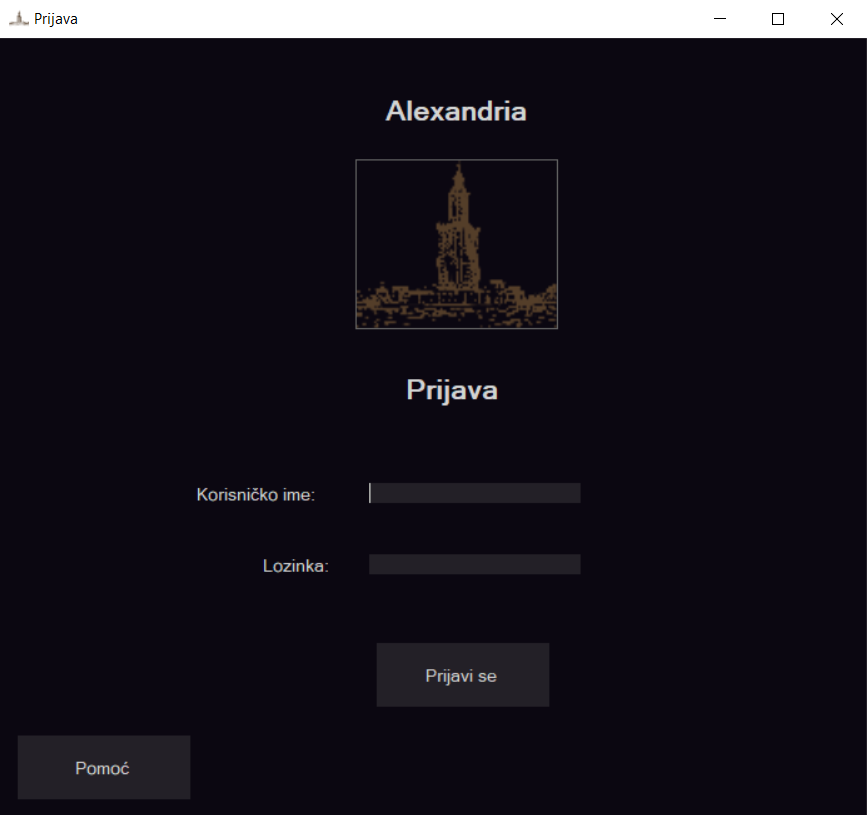
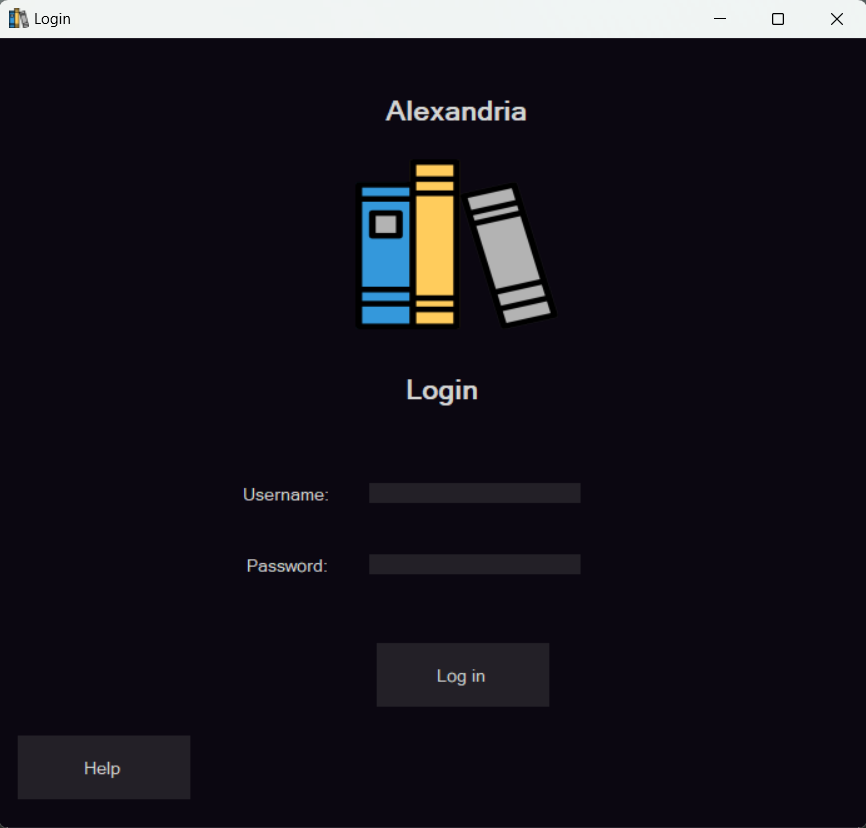
Alexandria: - bug resolved - more translations

diff --git a/Software/Alexandria/Presentation/Forms/FormLoans.cs b/Software/Alexandria/Presentation/Forms/FormLoans.cs
@@ -77,92 +77,96 @@ namespace Presentation.Forms
 
         private async void ButtonReturn_Click(object sender, EventArgs e)
         {
-            Loan selectedLoan = dataGridViewLoans.CurrentRow.DataBoundItem as Loan;
-            if (selectedLoan.Finished == false)
+            if (dataGridViewLoans.CurrentRow?.DataBoundItem != null)
             {
-                selectedLoan.Finished = true;
-
-                await _unitOfWork.Loans.UpdateAsync(selectedLoan, selectedLoan.Id);
-                await _unitOfWork.DatabaseScope.SaveAsync();
-
-                if (DateTime.Compare(selectedLoan.DateTo, DateTime.Now) <= 0)
+                Loan selectedLoan = dataGridViewLoans.CurrentRow.DataBoundItem as Loan;
+                if (selectedLoan.Finished == false)
                 {
-                    User user = selectedLoan.User;
-                    User employee = UserManager.LoggedUser;
+                    selectedLoan.Finished = true;
 
-                    Receipt receipt = new Receipt(user, employee);
+                    await _unitOfWork.Loans.UpdateAsync(selectedLoan, selectedLoan.Id);
+                    await _unitOfWork.DatabaseScope.SaveAsync();
 
-                    double dueAmount = (DateTime.Now - selectedLoan.DateTo).TotalDays * 15;
-
-                    receipt.ReceiptItem.Add(new ReceiptItem
+                    if (DateTime.Compare(selectedLoan.DateTo, DateTime.Now) <= 0)
                     {
-                        Loan = selectedLoan,
-                        Money = dueAmount
-                    });
+                        User user = selectedLoan.User;
+                        User employee = UserManager.LoggedUser;
 
-                    _unitOfWork.Receipts.Add(receipt);
+                        Receipt receipt = new Receipt(user, employee);
 
-                    MessageBox.Show("Literature returned and receipt issued.");
-                }
-                else
-                {
-                    MessageBox.Show("Literature returned.");
-                }
+                        double dueAmount = (DateTime.Now - selectedLoan.DateTo).TotalDays * 15;
 
-                await _unitOfWork.DatabaseScope.SaveAsync();
+                        receipt.ReceiptItem.Add(new ReceiptItem
+                        {
+                            Loan = selectedLoan,
+                            Money = dueAmount
+                        });
 
-                int literatureId = selectedLoan.LoanItem.First().LiteratureId;
-                Loan reservation = null;
+                        _unitOfWork.Receipts.Add(receipt);
 
-                List<LoanItem> loanItems = await _unitOfWork.LoanItems.GetAll()
-                    .Include(li => li.Loan)
-                    .Include(li => li.Literature)
-                    .Include(li => li.Literature.Author)
-                    .Where(x => x.Literature.Id == literatureId)
-                    .ToListAsync();
-                List<LoanItem> reservations = loanItems.Where(x => x.Loan.Started == false).ToList();
-                LoanItem reservationItems = null;
-
-                if (reservations.Count > 0)
-                {
-                    DateTime lowestDateTime;
-                    if (reservations.Count > 1)
-                    {
-                        lowestDateTime = reservations.Min(x => x.Loan.DateFrom);
+                        MessageBox.Show("Literature returned and receipt issued.");
                     }
                     else
                     {
-                        lowestDateTime = reservations.First().Loan.DateFrom;
+                        MessageBox.Show("Literature returned.");
                     }
-                    reservationItems = reservations.Find(x => x.Loan.DateFrom == lowestDateTime);
-                    reservation = reservationItems.Loan;
+
+                    await _unitOfWork.DatabaseScope.SaveAsync();
+
+                    int literatureId = selectedLoan.LoanItem.First().LiteratureId;
+                    Loan reservation = null;
+
+                    List<LoanItem> loanItems = await _unitOfWork.LoanItems.GetAll()
+                        .Include(li => li.Loan)
+                        .Include(li => li.Literature)
+                        .Include(li => li.Literature.Author)
+                        .Where(x => x.Literature.Id == literatureId)
+                        .ToListAsync();
+                    List<LoanItem> reservations = loanItems.Where(x => x.Loan.Started == false).ToList();
+                    LoanItem reservationItems = null;
+
+                    if (reservations.Count > 0)
+                    {
+                        DateTime lowestDateTime;
+                        if (reservations.Count > 1)
+                        {
+                            lowestDateTime = reservations.Min(x => x.Loan.DateFrom);
+                        }
+                        else
+                        {
+                            lowestDateTime = reservations.First().Loan.DateFrom;
+                        }
+                        reservationItems = reservations.Find(x => x.Loan.DateFrom == lowestDateTime);
+                        reservation = reservationItems.Loan;
+                    }
+
+                    if (CheckIfSmtpSettingsAreLoaded() && reservation != null)
+                    {
+                        var smtpClient = new SmtpClient(Properties.Settings.Default.SmtpClient)
+                        {
+                            Port = Properties.Settings.Default.Port,
+                            Credentials = new NetworkCredential(Properties.Settings.Default.Username, Properties.Settings.Default.Password),
+                            EnableSsl = Properties.Settings.Default.EnableSsl,
+                        };
+
+                        try
+                        {
+                            smtpClient.Send(Properties.Settings.Default.Username, reservation.User.EMail,
+                                "Alexandria Library Reservation",
+                                $"Dear {selectedLoan.User.FullName}," +
+                                $"\n\nReserved literature {reservationItems.Literature.Title} is available for loan." +
+                                $"\n\nSincerely,\n\nAlexandria Library");
+                            MessageBox.Show($"User {reservation.User.UserName} was notified about available literature.");
+                        }
+                        catch (Exception)
+                        {
+                            MessageBox.Show($"User {reservation.User.UserName} was not notified about available literature.");
+                        }
+                    }
+
+                    RefreshLoans();
                 }
 
-                if (CheckIfSmtpSettingsAreLoaded() && reservation != null)
-                {
-                    var smtpClient = new SmtpClient(Properties.Settings.Default.SmtpClient)
-                    {
-                        Port = Properties.Settings.Default.Port,
-                        Credentials = new NetworkCredential(Properties.Settings.Default.Username, Properties.Settings.Default.Password),
-                        EnableSsl = Properties.Settings.Default.EnableSsl,
-                    };
-
-                    try
-                    {
-                        smtpClient.Send(Properties.Settings.Default.Username, reservation.User.EMail,
-                            "Alexandria Library Reservation",
-                            $"Dear {selectedLoan.User.FullName}," +
-                            $"\n\nReserved literature {reservationItems.Literature.Title} is available for loan." +
-                            $"\n\nSincerely,\n\nAlexandria Library");
-                        MessageBox.Show($"User {reservation.User.UserName} was notified about available literature.");
-                    }
-                    catch (Exception)
-                    {
-                        MessageBox.Show($"User {reservation.User.UserName} was not notified about available literature.");
-                    }
-                }
-
-                RefreshLoans();
             }
         }
 

diff --git a/Software/Alexandria/Presentation/Forms/FormPickingIn.Designer.cs b/Software/Alexandria/Presentation/Forms/FormPickingIn.Designer.cs
@@ -39,6 +39,7 @@ namespace Presentation.Forms
             this.comboBoxCategory = new System.Windows.Forms.ComboBox();
             this.groupBox1 = new System.Windows.Forms.GroupBox();
             this.dataGridViewPickingInItem = new System.Windows.Forms.DataGridView();
+            this.literatureTitleDataGridViewTextBoxColumn = new System.Windows.Forms.DataGridViewTextBoxColumn();
             this.pickingInItemBindingSource1 = new System.Windows.Forms.BindingSource(this.components);
             this.groupBox2 = new System.Windows.Forms.GroupBox();
             this.buttonAddLiterature = new System.Windows.Forms.Button();
@@ -47,7 +48,6 @@ namespace Presentation.Forms
             this.buttonHelp = new System.Windows.Forms.Button();
             this.buttonLogOut = new System.Windows.Forms.Button();
             this.pickingInItemBindingSource = new System.Windows.Forms.BindingSource(this.components);
-            this.literatureTitleDataGridViewTextBoxColumn = new System.Windows.Forms.DataGridViewTextBoxColumn();
             this.groupBox1.SuspendLayout();
             ((System.ComponentModel.ISupportInitialize)(this.dataGridViewPickingInItem)).BeginInit();
             ((System.ComponentModel.ISupportInitialize)(this.pickingInItemBindingSource1)).BeginInit();
@@ -147,6 +147,15 @@ namespace Presentation.Forms
             this.dataGridViewPickingInItem.RowTemplate.Height = 24;
             this.dataGridViewPickingInItem.Size = new System.Drawing.Size(304, 279);
             this.dataGridViewPickingInItem.TabIndex = 0;
+            // 
+            // literatureTitleDataGridViewTextBoxColumn
+            // 
+            this.literatureTitleDataGridViewTextBoxColumn.DataPropertyName = "LiteratureTitle";
+            this.literatureTitleDataGridViewTextBoxColumn.HeaderText = "Title";
+            this.literatureTitleDataGridViewTextBoxColumn.MinimumWidth = 6;
+            this.literatureTitleDataGridViewTextBoxColumn.Name = "literatureTitleDataGridViewTextBoxColumn";
+            this.literatureTitleDataGridViewTextBoxColumn.ReadOnly = true;
+            this.literatureTitleDataGridViewTextBoxColumn.Width = 125;
             // 
             // pickingInItemBindingSource1
             // 
@@ -255,15 +264,6 @@ namespace Presentation.Forms
             // 
             this.pickingInItemBindingSource.DataSource = typeof(Data.Entities.PickingInItem);
             // 
-            // literatureTitleDataGridViewTextBoxColumn
-            // 
-            this.literatureTitleDataGridViewTextBoxColumn.DataPropertyName = "LiteratureTitle";
-            this.literatureTitleDataGridViewTextBoxColumn.HeaderText = "Title";
-            this.literatureTitleDataGridViewTextBoxColumn.MinimumWidth = 6;
-            this.literatureTitleDataGridViewTextBoxColumn.Name = "literatureTitleDataGridViewTextBoxColumn";
-            this.literatureTitleDataGridViewTextBoxColumn.ReadOnly = true;
-            this.literatureTitleDataGridViewTextBoxColumn.Width = 125;
-            // 
             // FormPickingIn
             // 
             this.AutoScaleDimensions = new System.Drawing.SizeF(10F, 20F);
@@ -281,7 +281,7 @@ namespace Presentation.Forms
             this.Margin = new System.Windows.Forms.Padding(4);
             this.MinimumSize = new System.Drawing.Size(762, 754);
             this.Name = "FormPickingIn";
-            this.Text = "Primka";
+            this.Text = "Picking in";
             this.Load += new System.EventHandler(this.FormPickingIn_Load);
             this.groupBox1.ResumeLayout(false);
             ((System.ComponentModel.ISupportInitialize)(this.dataGridViewPickingInItem)).EndInit();

diff --git a/Software/Alexandria/Presentation/Forms/FormStatistics.cs b/Software/Alexandria/Presentation/Forms/FormStatistics.cs
@@ -74,11 +74,11 @@ namespace Presentation.Forms
                 .GroupBy(x => x.Literature.AuthorName)
                 .Select(x => new { ID = x.Key, Count = x.Count() })
                 .ToList();
-            chartAuthorsLoansCount.Series["Posudbe"].Points.Clear();
+            chartAuthorsLoansCount.Series["Loans"].Points.Clear();
             chartAuthorsLoansCount.DataSource = data;
             foreach (var item in data)
             {
-                chartAuthorsLoansCount.Series["Posudbe"].Points.AddXY(item.ID, item.Count);
+                chartAuthorsLoansCount.Series["Loans"].Points.AddXY(item.ID, item.Count);
             }
         }
 
@@ -93,11 +93,11 @@ namespace Presentation.Forms
                 .Select(x => new { ID = x.Key, Count = x.Count() })
                 .ToList();
 
-            chartBooksLoansCount.Series["Posudbe"].Points.Clear();
+            chartBooksLoansCount.Series["Loans"].Points.Clear();
             chartBooksLoansCount.DataSource = data;
             foreach (var item in data)
             {
-                chartBooksLoansCount.Series["Posudbe"].Points.AddXY(item.ID, item.Count);
+                chartBooksLoansCount.Series["Loans"].Points.AddXY(item.ID, item.Count);
             }
         }
 
@@ -111,15 +111,15 @@ namespace Presentation.Forms
                 .Select(x => new { ID = x.Key, Count = x.Count() })
                 .ToList();
 
-            chartUsersLoansCount.Series["Posudbe"].Points.Clear();
-            chartUsersLoansCount.Series["Posudbe"]["PointWidth"] = "0.4";
+            chartUsersLoansCount.Series["Loans"].Points.Clear();
+            chartUsersLoansCount.Series["Loans"]["PointWidth"] = "0.4";
             chartUsersLoansCount.ChartAreas["ChartArea1"].AxisX.MajorGrid.LineWidth = 0;
-            chartUsersLoansCount.Series["Posudbe"].IsValueShownAsLabel = true;
+            chartUsersLoansCount.Series["Loans"].IsValueShownAsLabel = true;
             chartUsersLoansCount.DataSource = data;
 
             foreach (var item in data)
             {
-                chartUsersLoansCount.Series["Posudbe"].Points.AddXY(item.ID, item.Count);
+                chartUsersLoansCount.Series["Loans"].Points.AddXY(item.ID, item.Count);
             }
         }
     }

diff --git a/Software/Alexandria/Presentation/Forms/FormStatistics.Designer.cs b/Software/Alexandria/Presentation/Forms/FormStatistics.Designer.cs
@@ -126,7 +126,7 @@ namespace Presentation.Forms
             this.chartUsersLoansCount.Name = "chartUsersLoansCount";
             series1.ChartArea = "ChartArea1";
             series1.Legend = "Legend1";
-            series1.Name = "Posudbe";
+            series1.Name = "Loans";
             this.chartUsersLoansCount.Series.Add(series1);
             this.chartUsersLoansCount.Size = new System.Drawing.Size(428, 330);
             this.chartUsersLoansCount.TabIndex = 27;
@@ -147,7 +147,7 @@ namespace Presentation.Forms
             series2.Legend = "Legend1";
             series2.MarkerBorderColor = System.Drawing.Color.Black;
             series2.MarkerStyle = System.Windows.Forms.DataVisualization.Charting.MarkerStyle.Square;
-            series2.Name = "Posudbe";
+            series2.Name = "Loans";
             this.chartBooksLoansCount.Series.Add(series2);
             this.chartBooksLoansCount.Size = new System.Drawing.Size(428, 330);
             this.chartBooksLoansCount.TabIndex = 28;
@@ -168,7 +168,7 @@ namespace Presentation.Forms
             series3.Legend = "Legend1";
             series3.MarkerBorderColor = System.Drawing.Color.Black;
             series3.MarkerStyle = System.Windows.Forms.DataVisualization.Charting.MarkerStyle.Square;
-            series3.Name = "Posudbe";
+            series3.Name = "Loans";
             this.chartAuthorsLoansCount.Series.Add(series3);
             this.chartAuthorsLoansCount.Size = new System.Drawing.Size(428, 330);
             this.chartAuthorsLoansCount.TabIndex = 29;

diff --git a/Software/Alexandria/Presentation/Forms/FormPickingIn.cs b/Software/Alexandria/Presentation/Forms/FormPickingIn.cs
@@ -6,6 +6,7 @@ using Business.Interfaces;
 using Data;
 using Business.Services;
 using Data.Entities;
+using System.ComponentModel;
 
 namespace Presentation.Forms
 {
@@ -20,14 +21,13 @@ namespace Presentation.Forms
             InitializeComponent();
         }
 
-        private async void ButtonAddLiterature_Click(object sender, EventArgs e)
+        private void ButtonAddLiterature_Click(object sender, EventArgs e)
         {
             string title = textBoxTitle.Text;
             Author selectedAuthor = comboBoxAuthor.SelectedItem as Author;
             Category selectedCategory = comboBoxCategory.SelectedItem as Category;
             Literature literature = new Literature(title, selectedCategory, selectedAuthor);
             var newLiterature = _unitOfWork.Literatures.Add(literature);
-            await _unitOfWork.DatabaseScope.SaveAsync();
 
             _newPickingIn.PickingInItem.Add(new PickingInItem
             {
@@ -52,7 +52,7 @@ namespace Presentation.Forms
         public void RefreshDataGrid()
         {
             dataGridViewPickingInItem.DataSource = null;
-            dataGridViewPickingInItem.DataSource = _newPickingIn.PickingInItem;
+            dataGridViewPickingInItem.DataSource = new BindingList<PickingInItem>(_newPickingIn.PickingInItem);
         }
 
         private async void FormPickingIn_Load(object sender, EventArgs e)

diff --git a/Software/Alexandria/Data/Entities/PickingInItem.cs b/Software/Alexandria/Data/Entities/PickingInItem.cs
@@ -17,7 +17,7 @@ namespace Data.Entities
         {
             get
             {
-                return Literature.Title;
+                return Literature?.Title;
             }
         }
 
